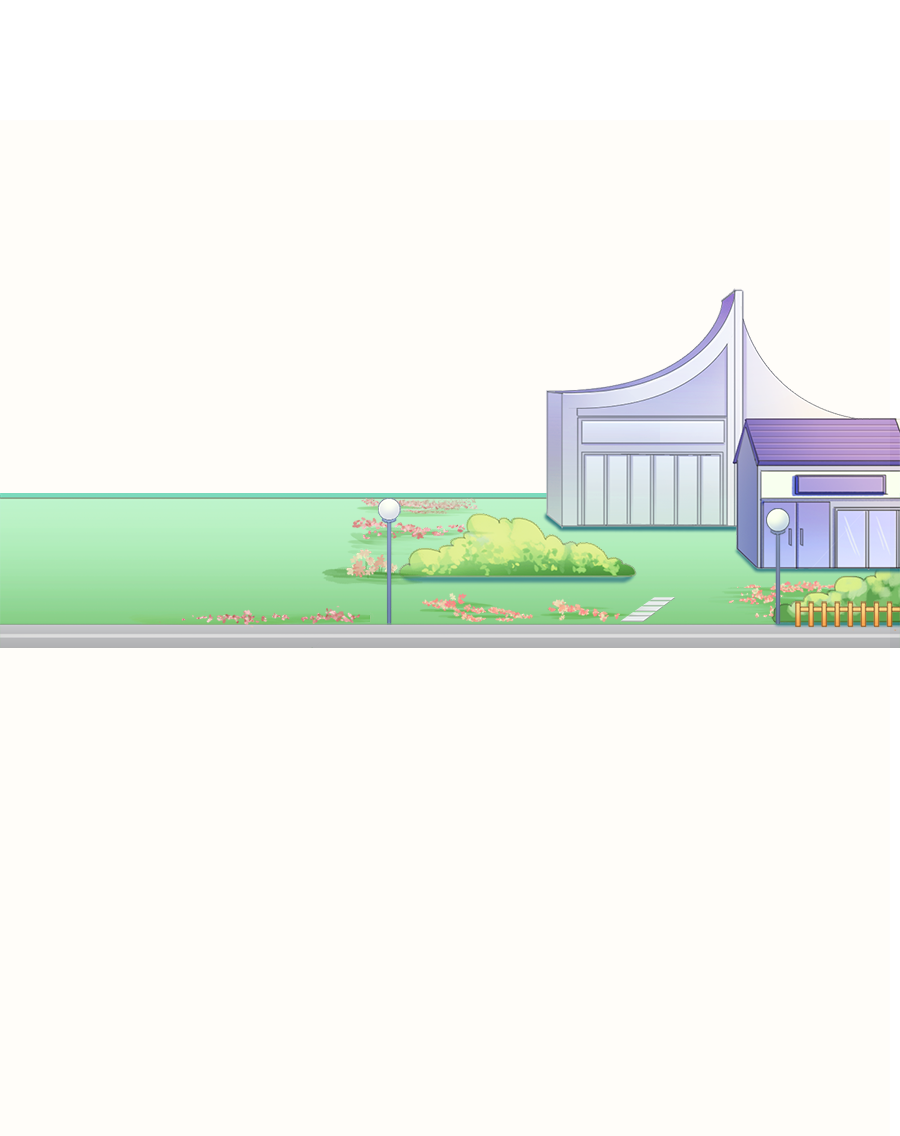
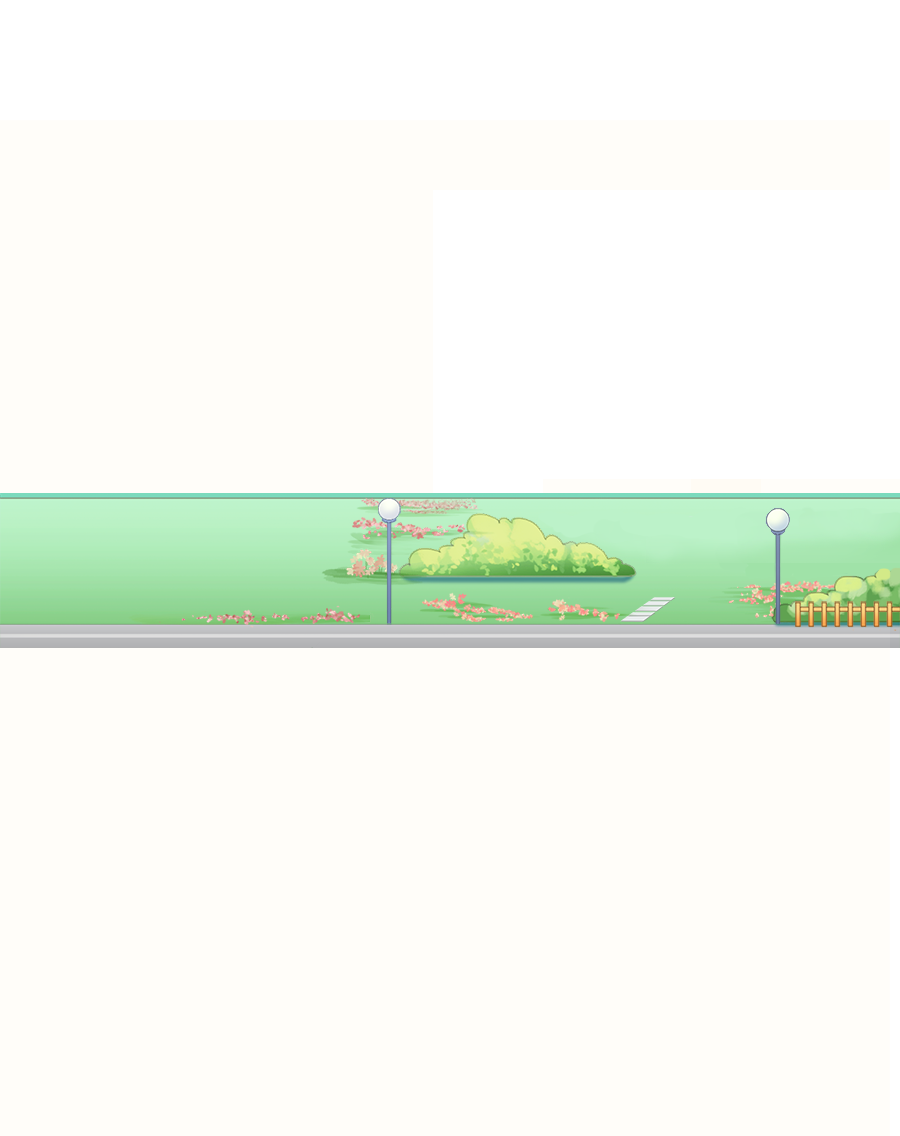
by yang 09011512

Changed region(s): [[0.5911, 0.2465, 1.0, 0.5238]]

diff --git a/sources/view/mainScene/MainScene.cpp b/sources/view/mainScene/MainScene.cpp
@@ -92,6 +92,8 @@ bool MainScene::init(){
     move_x = 0;
     
     isOpen = true;
+    opacity = 200;
+    sp = 1.0;
     
     time_t t;
     struct tm *p;
@@ -486,6 +488,25 @@ void MainScene::creat_view(){
     _layer_3->addChild(menu_richang);
     company_bar1->setUserObject(ccs("res/pic/mainScene/company_bar.png"));
     _arrGroup1->addObject(company_bar1);
+    
+    
+    //---樱花树---
+    tree = CCSprite::create("res/pic/mainScene/tree_1.png");
+    tree->setPosition(ccp(_layer_3->getContentSize().width* .76f, _layer_3->getContentSize().height* .66f));
+    _layer_3->addChild(tree);
+    
+    CCAnimation* amt = CCAnimation::create();
+    for (int i = 0; i < 6; i++) {
+        CCString* str = CCString::createWithFormat("res/pic/mainScene/tree_%d.png", i + 1);
+        amt->addSpriteFrameWithFileName(str->getCString());
+    }
+    amt->setDelayPerUnit(0.5f);
+    amt->setRestoreOriginalFrame(true);
+    CCAnimate* animate_tree = CCAnimate::create(amt);
+    
+    CCRepeatForever* rep_tree = CCRepeatForever::create(CCSequence::create(animate_tree, animate_tree->reverse(), NULL));
+    
+    tree->runAction(rep_tree);
     
     
     //---社交btn(咖啡厅)---
@@ -923,6 +944,16 @@ void MainScene::update(float dt){
         car_3->setPositionX(car_3->getPositionX() + 70 * dt);
     }
     
+    if(opacity <= 150) {
+        sp = 20.0;
+    }
+    if(opacity >= 255) {
+        sp = -20.0;
+    }
+    opacity += sp * dt;
+    opacity = opacity > 255 ? 255 : opacity;
+    tree->setOpacity((GLubyte)opacity);
+    CCLog("Opacity: %d, opc: %f", tree->getOpacity(), opacity);
     if (isEffective) {
         isOk = true;
     }

diff --git a/sources/view/mainScene/MainScene.h b/sources/view/mainScene/MainScene.h
@@ -77,7 +77,9 @@ public:
     CCSprite* _bird_6;
     CCSprite* _bird_7;
     
-    
+    CCSprite*  tree;
+    float    opacity;
+    float      sp;
     
     CCSprite* car_1;
     CCSprite* car_2;
